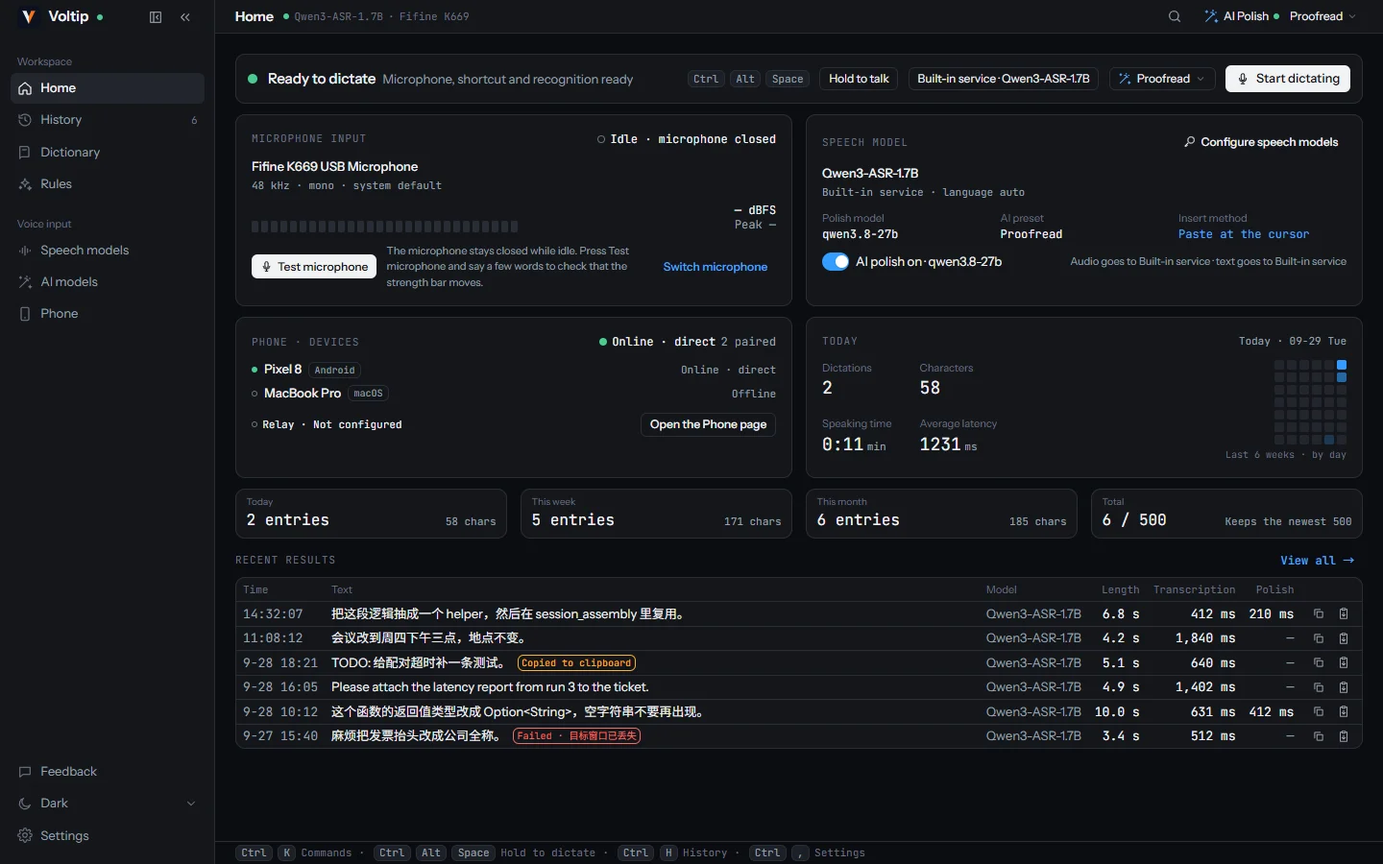
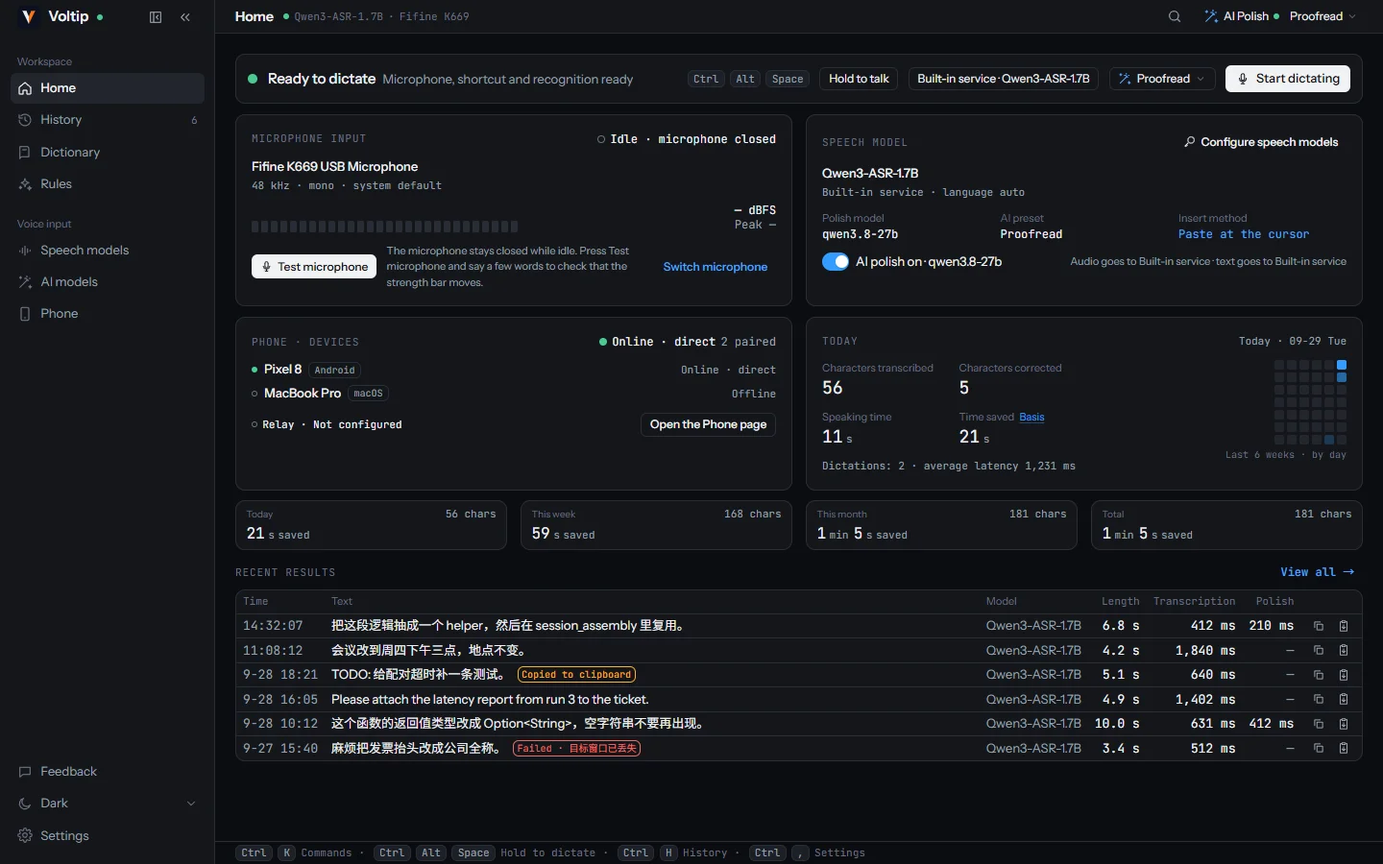
docs(voltip): sync from voltip@0a6762c
Source: https://github.com/sunerpy/voltip/commit/0a6762c34f20e1d3e2b272da582e045d2ff1074f

diff --git a/voltip/src/zh/dev/frontend.md b/voltip/src/zh/dev/frontend.md
@@ -69,7 +69,11 @@ Tauri command 名与参数（`invoke(name, args)`），返回值 JSON：
 | `scenes_update` / `scenes_remove` | `{ id, scene }` / `{ id }` | `null`（未知 id 为 `error` 事件） |
 | `scenes_reorder` | `{ ids: string[] }`（现有 id 的一个排列） | `null` |
 | `settings_set_context_sharing` | `{ appName: boolean, windowTitle: boolean }` | `null`（持久化 `Settings.context_sharing` 并回发 `settings`） |
-| `recent_apps` | — | `AppRef[]`（查询，`Backend.recentApps()`：历史里最近出现的应用，最新在前，按 id 去重，≤ 20） |
+| `recent_apps` | — | `AppRef[]`（查询，`Backend.recentApps()`：历史里最近出现的应用，最新在前，按 id 去重，≤ 20；读历史库） |
+| `history_query` | `{ sinceMs?, starred, failed, query, offset, limit }`（`limit` 1–200） | `HistoryPage` `{ entries, matching, total }`（查询，`Backend.historyQuery()`，docs/dictation.md §4.4） |
+| `history_entry` | `{ id }` | `HistoryEntry \| null`（查询，`Backend.historyEntry()`） |
+| `history_stats` | `{ boundaries: number[] }`（递增的本地零点，2–43 个） | `HistoryStats` `{ buckets, total }`（查询，`Backend.historyStats()`，docs/dictation.md §4.5） |
+| `history_hits` | — | `HistoryHits` `{ dictionary, rules }`（查询，`Backend.historyHits()`：全部历史的触发次数） |
 
 事件：`listen("voltip://event", (e) => UiEvent)`；听写相关事件为 `dictation`（`DictationStatus` 展平）、`history`（`{ entries }`）、`engines`（`EngineStatus` 展平），更新器事件为 `update`（`UpdateStatus` 展平，`type` 与 `state` 两个判别字段），词典与规则为 `dictionary`（`{ entries }`）与 `rules`（`{ rules }`，每次变更全量），`UiState` 有同名字段（`schema.ts` 用 `.default()` 兼容缺字段的旧核心）。
 
@@ -112,18 +116,18 @@ interface AppRef { id: string; name: string }
 interface TakeContext { app: AppRef; scene?: { id: string; name: string } } // DictationStatus.context?、HistoryEntry.app? / scene?
 interface ContextSharing { app_name: boolean /* default true */; window_title: boolean /* default false */ } // Settings.context_sharing
 interface NearbyDevice { fingerprint: string /* 16 位十六进制 */; name: string; platform: Platform; pairing: boolean; trusted: boolean } // docs/pairing.md「局域网发现」
-interface UiState { identity: DeviceIdentityPublic | null; settings: Settings; secret_backend: string; relay: RelayStatus; pairing: Snapshot; devices: DeviceView[]; hotkey: HotkeyStatus; dictation: DictationStatus; history: HistoryEntry[] /* 每行可带 vocabulary?: { corrections, rules }（命中的 id 与次数） */; engines: EngineStatus; update: UpdateStatus; models: ModelState[]; dictionary: DictionaryEntry[]; rules: ReplacementRule[]; nearby: NearbyDevice[] /* 局域网浏览看到的设备，default [] */ }
+interface UiState { identity: DeviceIdentityPublic | null; settings: Settings; secret_backend: string; relay: RelayStatus; pairing: Snapshot; devices: DeviceView[]; hotkey: HotkeyStatus; dictation: DictationStatus; history_recent: HistoryEntry[] /* 最新 20 条，每行可带 vocabulary?: { corrections, rules }（命中的 id 与次数） */; history_total: number /* 全部条数，其余用 history_query 读 */; engines: EngineStatus; update: UpdateStatus; models: ModelState[]; dictionary: DictionaryEntry[]; rules: ReplacementRule[]; nearby: NearbyDevice[] /* 局域网浏览看到的设备，default [] */ }
 type UiEvent = { type: "state" } & UiState | { type: "identity" } & DeviceIdentityPublic | { type: "settings" } & Settings | { type: "relay" } & RelayStatus
   | { type: "pairing" } & Snapshot | { type: "devices"; 0?: never } /* payload is the array: see below */ | { type: "trusted" } & TrustedDevice
   | { type: "identity_changed"; previous: TrustedDevice; presented_fingerprint: string } | { type: "message"; from: string; body: string } | { type: "error"; message: string }
-  | { type: "hotkey" } & HotkeyStatus | { type: "dictation" } & DictationStatus | { type: "history"; entries: HistoryEntry[] } | { type: "engines" } & EngineStatus | { type: "update" } & UpdateStatus
+  | { type: "hotkey" } & HotkeyStatus | { type: "dictation" } & DictationStatus | { type: "history"; recent: HistoryEntry[]; total: number } | { type: "engines" } & EngineStatus | { type: "update" } & UpdateStatus
   | { type: "models"; models: ModelState[] } | { type: "dictionary"; entries: DictionaryEntry[] } | { type: "rules"; rules: ReplacementRule[] }
   | { type: "scenes"; scenes: Scene[] } /* UiState.scenes，整份替换 */ | { type: "nearby"; devices: NearbyDevice[] } /* UiState.nearby，整份替换 */;
 ```
 
 注意 serde 内部标签的细节：`UiEvent::Devices(Vec<DeviceView>)` 与 `UiEvent::State(UiState)` 等 newtype 变体在 JSON 中是 `{"type":"devices", ...}`？**不是**——serde 对 tagged newtype 变体的规则：结构体内容被展平（`state`、`identity`、`settings`、`relay`、`pairing`、`trusted` 都是结构体，会展平成 `{type, ...fields}`），而 `devices` 的内容是数组，serde 无法展平，Rust 侧已改为 `{"type":"devices","devices":[...]}`。用 zod 按上述形状校验，校验失败记录并忽略该事件。
 
-`Backend` 接口：`getState() invoke() on(event) audioDevices() meter()`，以及查询 `updateStatus() vocabularyPreview() rulesExport() recentApps() permissionsStatus() permissionsRequest() injectPreflight() pasteText()`；提供 `TauriBackend`（`@tauri-apps/api` 的 `invoke/listen`）与 `MockBackend`（内存模拟：完整走完配对状态机与倒计时、设备上下线、消息回显，以及确定性的听写流水线——`dictation_start` → listening（`ready: false`，150 ms 后 `ready: true` 并重取 `started_at`；`live_preview_ready` 时每 400 ms 一条流式部分结果：`current` 增长三步 → 端点提交一条 `committed` → 第二句增长，脚本 `MOCK_LIVE_SCRIPT`；`simulateLiveDegraded(reason)` 置 `live.degraded` 并停发部分结果），`dictation_stop` → 400 ms transcribing（带 `preview` = committed + current）→ 300 ms refining → done + 一条 `HistoryEntry`，2.5 s 后回 idle；**输出模式（§12）**：`engines.effective_output_mode` = `output_mode`，流式模式在流式模型未安装 / `live_preview` 关时回落 `whole_take`；模式在 `dictation_start` 时定下——`streaming_final` 走 finalizing（120 ms，`MOCK_FINALIZE_MS`）→ refining? → done（`mode`、`segments` = committed + tail、`raw_text` = 预览文本、`asr_ms` = 120），`live_inject` 每个 committed 句立刻 `live.injected += 1`，松开后 finalizing → inserting → done 且不润色，取消时 `cancelled.injected_chars` = 已粘贴字数；流式取无文本或 `degraded` 时回落整段并记 `live_error`（`MOCK_EMPTY_STREAM_ERROR`）；**激活（§13）**：`hotkey_edge` 按 `settings.activation` 驱动——`hold` 按下开始 / 松开结束，`toggle` 按下切换 / 松开忽略，`hold_or_toggle` 松开时按住 ≥ `hold_threshold_ms` 结束、否则 `listening.locked = true` 并等下一次按下；`source: "cli"` 按下切换、松开取消；去抖、宽限与处理中 pending 不模拟。`settings_set_activation` 持久化三值并回发 `settings`，> 5000 ms 发 `error` 且不改；`extra_recording_ms > 0` 时 stop 延后关麦，窗口内第二次 stop 立即关、cancel 连录音一起丢弃；目录五条产品档位（`qwen3-asr-0.6b` 均衡 / `qwen3-asr-1.7b` 高精度 / `sense-voice-small` 轻量 / `paraformer-zh` 轻量 · 中文 / `zipformer-stream-zh-en` 实时预览，尺寸同真实文件），`live_preview_ready = live_preview && 流式模型已安装`；`settings_set_engines` / `provider_key_set` / `provider_probe` / `history_*` 真实作用于内存状态；**场景（§18）**：`scenes_*` / `settings_set_context_sharing` 按核心同样的上限与拒绝原文（`packages/shared/src/scenes.ts`），`recentApps()` 取内存历史；假探针 `foregroundApp` 选项 / `setForegroundApp(app | null)`，每次 `dictation_start` 按核心规则清洗答复并匹配场景，覆盖输出方式（流式不可用时整段 + `live_error`）与润色开关，`context` 进状态、`app` / `scene` 进历史；**语音编辑（§19）**：`setSelection(text | null)` 模拟前台选区（默认没有），`hotkey_edge { purpose: "edit" }` 按同一激活语义开始编辑的一次（另一种用途的一次进行中时边沿丢弃）——没有润色密钥即 `failed{edit_unavailable}` 不开麦；假探针 `foregroundApp` 的 id 属于身份平台的终端表（`isTerminalApp`，与 `voltip_platform::foreground` 同一份表，macOS 为空）即 `failed{edit_in_terminal}`，不复制、不写历史；60 ms（`MOCK_COPY_MS`）后复制：无选区 / 只有空白 `no_selection`、超过 2000 字 `selection_too_long`；松开后 transcribing → refining → inserting → done（`MOCK_EDIT_INSTRUCTION` → `MOCK_EDIT_TEXT`，永远整段、规则不跑），写一条 `kind: edit` 的历史（带指令、原选区与探针的 `app`，不匹配场景）；`settings_set_edit_hotkey` 与 `settings_set_hotkey` 互相拒绝对方的组合键，`hotkey` 状态带 `edit_registered`；内置服务在界面上只显示为「内置服务」，没有主机名；**粘贴到上一个窗口**（docs/dictation.md §4.1）：`pasteText` 照壳层与核心的规则拒绝（手机 `unsupported`、空白或超长 `invalid`、录音或处理中 `busy`），其余记进 `pastes` 并答 `pasteOutcome` 选项（默认 `pasted`，`setPasteOutcome` 可改），不写历史）。
+`Backend` 接口：`getState() invoke() on(event) audioDevices() meter()`，以及查询 `updateStatus() vocabularyPreview() rulesExport() recentApps() historyQuery() historyEntry() historyStats() historyHits() permissionsStatus() permissionsRequest() injectPreflight() pasteText()`；提供 `TauriBackend`（`@tauri-apps/api` 的 `invoke/listen`）与 `MockBackend`（内存模拟：完整走完配对状态机与倒计时、设备上下线、消息回显，以及确定性的听写流水线——`dictation_start` → listening（`ready: false`，150 ms 后 `ready: true` 并重取 `started_at`；`live_preview_ready` 时每 400 ms 一条流式部分结果：`current` 增长三步 → 端点提交一条 `committed` → 第二句增长，脚本 `MOCK_LIVE_SCRIPT`；`simulateLiveDegraded(reason)` 置 `live.degraded` 并停发部分结果），`dictation_stop` → 400 ms transcribing（带 `preview` = committed + current）→ 300 ms refining → done + 一条 `HistoryEntry`，2.5 s 后回 idle；**输出模式（§12）**：`engines.effective_output_mode` = `output_mode`，流式模式在流式模型未安装 / `live_preview` 关时回落 `whole_take`；模式在 `dictation_start` 时定下——`streaming_final` 走 finalizing（120 ms，`MOCK_FINALIZE_MS`）→ refining? → done（`mode`、`segments` = committed + tail、`raw_text` = 预览文本、`asr_ms` = 120），`live_inject` 每个 committed 句立刻 `live.injected += 1`，松开后 finalizing → inserting → done 且不润色，取消时 `cancelled.injected_chars` = 已粘贴字数；流式取无文本或 `degraded` 时回落整段并记 `live_error`（`MOCK_EMPTY_STREAM_ERROR`）；**激活（§13）**：`hotkey_edge` 按 `settings.activation` 驱动——`hold` 按下开始 / 松开结束，`toggle` 按下切换 / 松开忽略，`hold_or_toggle` 松开时按住 ≥ `hold_threshold_ms` 结束、否则 `listening.locked = true` 并等下一次按下；`source: "cli"` 按下切换、松开取消；去抖、宽限与处理中 pending 不模拟。`settings_set_activation` 持久化三值并回发 `settings`，> 5000 ms 发 `error` 且不改；`extra_recording_ms > 0` 时 stop 延后关麦，窗口内第二次 stop 立即关、cancel 连录音一起丢弃；目录五条产品档位（`qwen3-asr-0.6b` 均衡 / `qwen3-asr-1.7b` 高精度 / `sense-voice-small` 轻量 / `paraformer-zh` 轻量 · 中文 / `zipformer-stream-zh-en` 实时预览，尺寸同真实文件），`live_preview_ready = live_preview && 流式模型已安装`；`settings_set_engines` / `provider_key_set` / `provider_probe` / `history_*` 真实作用于内存状态；**场景（§18）**：`scenes_*` / `settings_set_context_sharing` 按核心同样的上限与拒绝原文（`packages/shared/src/scenes.ts`），`recentApps()` 取内存历史；假探针 `foregroundApp` 选项 / `setForegroundApp(app | null)`，每次 `dictation_start` 按核心规则清洗答复并匹配场景，覆盖输出方式（流式不可用时整段 + `live_error`）与润色开关，`context` 进状态、`app` / `scene` 进历史；**语音编辑（§19）**：`setSelection(text | null)` 模拟前台选区（默认没有），`hotkey_edge { purpose: "edit" }` 按同一激活语义开始编辑的一次（另一种用途的一次进行中时边沿丢弃）——没有润色密钥即 `failed{edit_unavailable}` 不开麦；假探针 `foregroundApp` 的 id 属于身份平台的终端表（`isTerminalApp`，与 `voltip_platform::foreground` 同一份表，macOS 为空）即 `failed{edit_in_terminal}`，不复制、不写历史；60 ms（`MOCK_COPY_MS`）后复制：无选区 / 只有空白 `no_selection`、超过 2000 字 `selection_too_long`；松开后 transcribing → refining → inserting → done（`MOCK_EDIT_INSTRUCTION` → `MOCK_EDIT_TEXT`，永远整段、规则不跑），写一条 `kind: edit` 的历史（带指令、原选区与探针的 `app`，不匹配场景）；`settings_set_edit_hotkey` 与 `settings_set_hotkey` 互相拒绝对方的组合键，`hotkey` 状态带 `edit_registered`；内置服务在界面上只显示为「内置服务」，没有主机名；**粘贴到上一个窗口**（docs/dictation.md §4.1）：`pasteText` 照壳层与核心的规则拒绝（手机 `unsupported`、空白或超长 `invalid`、录音或处理中 `busy`），其余记进 `pastes` 并答 `pasteOutcome` 选项（默认 `pasted`，`setPasteOutcome` 可改），不写历史）。
 
 `MockBackend` 与只在开发时用的页面（胶囊规格页 `OverlaySheet`）从 `@voltip/shared/mock` 与动态 `import()` 加载，只在 `import.meta.env.DEV` 且不在 Tauri 里时启用；发行包的前端里没有它们，`scripts/check-web-bundle.sh` 检查构建产物。
 
@@ -139,7 +143,7 @@ type UiEvent = { type: "state" } & UiState | { type: "identity" } & DeviceIdenti
 - 路由 `/`（首页）`/history` `/dictionary` `/rules` `/engines` `/devices`（配对面板 = 二维码 + 6 位码 + 倒计时 + 设备表）`/settings/:section`（对话框）`/onboarding`（权限 → 热键 → 引擎 → 试说，四步）；`Ctrl K` 命令菜单；悬浮胶囊作为独立路由 `/overlay?state=` 渲染单个胶囊（独立小窗，`state=blank` 什么都不画，**`state=live` 跟随 `state.dictation`**：idle 不画；listening 波形来自 `audio_meter_start` 的实时电平 + 已用时长——`ready: false`（设备尚未送出样本）时计时停在 `00:00` 并显示「等待麦克风」提示，`ready: true` 后从重取的 `started_at` 起计；有 `live` 时胶囊长高到两行（`h-14`，窗口 64 px 减 8 px 顶部内边距），波形上方一行两色实时字幕：`committed` 正常色 + `current` 弱化色（`text-pill-muted`），中日韩边界不加空格、拉丁边界加空格（`liveTextGap`），单行、只保留末尾 40 个字符（`clipLiveCaption`，前置省略号，`data-clipped`），旁边一枚「预览」小 chip；`live.degraded` 胶囊不额外显示任何东西（首页引擎卡出一行「实时预览已中断 · 最终文本不受影响」）；processing 有 `preview` 时用弱化色的预览文本（`pill-preview`，同样只留末尾 40 字）替代「转写中…」/「润色中…」直到最终结果；inserted 显示字数与 `via`，failed 显示原因并在有 `text` 时提供真实「复制文本」，cancelled 用 danger 胶囊），**§12 / §13（2026-09-26）**：`listening.locked` 时锁标（`pill-lock`，`aria-label`「已锁定 · 再按一次结束」）替代状态灯、字幕与计时照旧；`live.injected > 0` 时已粘贴的 committed 句以更淡样式（`pill-live-injected`，`title`「已打进前台应用」）排在字幕最前、裁剪时最先被裁；`processing.stage = finalizing` 时模式 tag 显示「补齐最后一句…」而 `preview` 继续显示；`cancelled.injected_chars > 0` 时文案为「已取消，之前打进去的 N 字保留」）；`/overlay` 不带参数是胶囊规格页（八态总览 + toast / 兜底卡 / 失败原因表；`locked` 样例胶囊的「结束收音」是真实 `dictation_stop`），只在开发构建里有，发行包里这个地址显示「找不到页面」。没有 `/bridge` 路由（Bridge & MCP 不在产品范围内）；首页对应位置是由核心真实数据驱动的「手机麦克风 · 设备」卡。
 - 客户端禁用浏览器右键菜单（`apps/desktop/src/app/context-menu.ts`，仅 Tauri 内生效，可编辑控件与 `data-allow-context-menu` 除外）。
 
-所有页面的数据都来自 `Backend`（`state.dictation` / `state.history` / `state.dictionary` / `state.rules` / `state.engines` / `state.settings` …）；`packages/shared/src/fixtures/` 只剩 IPC 契约夹具与测试数据。
+所有页面的数据都来自 `Backend`（`state.dictation` / `state.history_recent` 与历史查询 / `state.dictionary` / `state.rules` / `state.engines` / `state.settings` …）；`packages/shared/src/fixtures/` 只剩 IPC 契约夹具与测试数据。
 
 移动端（`apps/mobile/src`，同一套组件，竖屏 390×844 起）：`Welcome → This Device（名称、指纹、平台）→ Pair Device（[扫码] 或 输入 6 位码 `_ _ _   _ _ _`）→ Verify Device（对端名称/平台 + Safety Code 四词 + 指纹 + [Confirm & Trust]/[Reject]）→ Devices（Device / Platform / Online·Offline / Last Seen / Trusted / Connection Type）`。扫码用 `@tauri-apps/plugin-barcode-scanner`（在 Mock 下用文本输入代替）。
 
@@ -152,7 +156,7 @@ type UiEvent = { type: "state" } & UiState | { type: "identity" } & DeviceIdenti
 
 ## 6. 范围与诚实状态
 
-听写流水线在 Rust 核心真实运行（`docs/dictation.md`）：录音、识别、润色、剪贴板 + 粘贴注入、`history.json`、服务商与密钥。**界面上没有「尚未接入」「示例」一类的占位**：一个功能要么真的能用，要么不出现（`packages/shared/src/labels.test.ts` 的回归测试检查两份字典里都没有这类文案）。不做定时器模拟的进度、不伪造接受结果、不为没有发生的事弹成功 toast。
+听写流水线在 Rust 核心真实运行（`docs/dictation.md`）：录音、识别、润色、剪贴板 + 粘贴注入、`history.sqlite3`、服务商与密钥。**界面上没有「尚未接入」「示例」一类的占位**：一个功能要么真的能用，要么不出现（`packages/shared/src/labels.test.ts` 的回归测试检查两份字典里都没有这类文案）。不做定时器模拟的进度、不伪造接受结果、不为没有发生的事弹成功 toast。
 
 ### 6.1 统一措辞（`packages/shared/src/labels.ts`）
 
@@ -170,8 +174,8 @@ type UiEvent = { type: "state" } & UiState | { type: "identity" } & DeviceIdenti
 
 | 路由 | 数据来源 | UI 如何表达 |
 |---|---|---|
-| `/` 首页 | **全部真实**：就绪行读 `state.engines`（令牌是否就位）+ 麦克风；识别引擎卡在 `live_preview_ready` 时带「实时预览」chip（`home-live-preview`），listening 且 `live.degraded` 时出一行「实时预览已中断 · 最终文本不受影响」（`home-live-degraded`，`title` 为核心原因）；本地模式的模型名中文用核心 `name`、英文按 id 查字典；组合键 keycaps 读 `state.settings.hotkey`，就绪行的 chip（按住说话 / 按一下开始 · 再按结束 / 按住说话 · 短按锁定）、页脚说明（按住听写 / 按一下听写 / 按住或按一下听写）与空态提示（`activationHint`）随 `state.settings.activation` 变化（docs/dictation.md §13）；「开始听写」= `dictation_start`，听写中变「停止」= `dictation_stop`，另有「取消」= `dictation_cancel`；就绪行下方一行实时状态（`正在听… 00:03` / `转写中…` / `已插入 42 字 · 粘贴 · 已润色` / `失败 · …`）；识别引擎卡读 `state.engines`，LLM 润色开关写 `settings_set_engines`；今日会话 / 统计条 / 近 6 周热力图 / 最近的结果由 `state.history` 计算（`features/history/stats.ts`）；麦克风卡为 Rust 电平；手机麦克风卡读 `state.devices` / `state.relay` | 无 chip、无徽标；令牌缺失时「还不能开始听写」+ 按钮禁用并带原因 `识别引擎缺少访问令牌 · 在「引擎」页设置`；历史为空时表格位置是空态 + 热键提示 |
-| `/history` | **真实** `state.history`（`history.json`，上限 500） | 横幅写事实「history.json · 上限 500 条」；筛选 全部 / 今天 / 本周 / 本月 / 已收藏 / 未插入；搜索文本 / 原文 / 模型 / 应用 / 场景；带上下文的条目在日志行显示应用名 + 场景徽标（`history-context`），详情显示「应用：名称 · id」与「场景」（没有匹配为「未匹配场景」，docs/dictation.md §18.6）；星标 = `history_star`，删除 = 确认 + `history_delete`（选中相邻项），全部清空 = 确认 + `history_clear`；复制走 `copyWithToast`；原文 / 润色后 / 对比 diff 来自 `raw_text` 与 `text`；`mode` 为流式定稿 / 实时注入的条目在日志行与详情页头带 `Badge`（`history-mode` / `history-detail-mode`），整段不显示；`live_error` 有值时详情里出「流式回退：…」（`history-live-error`）；空态提示随 `settings.activation`；详情列出本次触发的词典纠正与规则（`history-vocabulary`，名称取当前列表，已删除的写「已删除的词条 / 规则」）；「加入词典」打开对话框（曾听成用当前选区预填，正确写法手填）提交 `dictionary_add { historyId }`，核心拒绝时对话框保留并显示原因；没有「重新插入」「保留时长」等无后端控件 |
+| `/` 首页 | **全部真实**：就绪行读 `state.engines`（令牌是否就位）+ 麦克风；识别引擎卡在 `live_preview_ready` 时带「实时预览」chip（`home-live-preview`），listening 且 `live.degraded` 时出一行「实时预览已中断 · 最终文本不受影响」（`home-live-degraded`，`title` 为核心原因）；本地模式的模型名中文用核心 `name`、英文按 id 查字典；组合键 keycaps 读 `state.settings.hotkey`，就绪行的 chip（按住说话 / 按一下开始 · 再按结束 / 按住说话 · 短按锁定）、页脚说明（按住听写 / 按一下听写 / 按住或按一下听写）与空态提示（`activationHint`）随 `state.settings.activation` 变化（docs/dictation.md §13）；「开始听写」= `dictation_start`，听写中变「停止」= `dictation_stop`，另有「取消」= `dictation_cancel`；就绪行下方一行实时状态（`正在听… 00:03` / `转写中…` / `已插入 42 字 · 粘贴 · 已润色` / `失败 · …`）；识别引擎卡读 `state.engines`，LLM 润色开关写 `settings_set_engines`；最近的结果读 `state.history_recent`；今日会话 / 统计条 / 近 6 周热力图来自 `history_stats`（`features/history/stats.ts`、`useHomeStats.ts`，docs/dictation.md §4.5）：今日面板写转录字数、修正字数、说话时长、节省时间，四张卡写节省时间和字数，「依据」弹层说明 × 1.9 的来源；麦克风卡为 Rust 电平；手机麦克风卡读 `state.devices` / `state.relay` | 无 chip、无徽标；令牌缺失时「还不能开始听写」+ 按钮禁用并带原因 `识别引擎缺少访问令牌 · 在「引擎」页设置`；历史为空时表格位置是空态 + 热键提示 |
+| `/history` | **真实** `history_query` 分页读库（`history.sqlite3`，上限 2 万，docs/dictation.md §4.4） | 横幅写保留条数（`settings.history.keep`）；每页 100 条，滚动到底加载下一页（另有「加载更多」），列表下方写「已显示 n / m 条」；筛选与搜索交给核心（搜索停止输入 200 ms 后发出）；筛选 全部 / 今天 / 本周 / 本月 / 已收藏 / 未插入；搜索文本 / 原文 / 模型 / 应用 / 场景；带上下文的条目在日志行显示应用名 + 场景徽标（`history-context`），详情显示「应用：名称 · id」与「场景」（没有匹配为「未匹配场景」，docs/dictation.md §18.6）；星标 = `history_star`，删除 = 确认 + `history_delete`（选中相邻项），全部清空 = 确认 + `history_clear`；复制走 `copyWithToast`；原文 / 润色后 / 对比 diff 来自 `raw_text` 与 `text`；`mode` 为流式定稿 / 实时注入的条目在日志行与详情页头带 `Badge`（`history-mode` / `history-detail-mode`），整段不显示；`live_error` 有值时详情里出「流式回退：…」（`history-live-error`）；空态提示随 `settings.activation`；详情列出本次触发的词典纠正与规则（`history-vocabulary`，名称取当前列表，已删除的写「已删除的词条 / 规则」）；「加入词典」打开对话框（曾听成用当前选区预填，正确写法手填）提交 `dictionary_add { historyId }`，核心拒绝时对话框保留并显示原因；没有「重新插入」「保留时长」等无后端控件 |
 | `/dictionary` | **真实** `state.dictionary`（`dictionary.json`，上限 500，按匹配顺序） | 新建（表上方一行）/ 行内编辑（Enter 保存、Esc 取消）/ 启用开关 / 上移下移 / 删除（行内确认）= `dictionary_*`；输入时本地查空、超长、重复正确写法、写法过多，其余由核心判定（reject 原文留在编辑器，冲突为 `error` toast）；「命中」列与「历史记录里的命中」chip 汇总 `history[*].vocabulary.corrections`；「试一试」= `vocabulary_preview`（防抖，列表变化重问），「用最近一次听写」取 `history[0].raw_text`；说明卡写明词表去向（云端识别与 AI 润色；本地模型不接收）；`Ctrl N` 新建；没有 CSV、权重、复制为规则、示例页脚 |
 | `/rules` | **真实** `state.rules`（`rules.json`，上限 200，按执行顺序） | 一张表（序号 / 名称 / 类型 / 匹配 + `Aa` / 替换或「（删除）」/ 命中 / 启用）；编辑器本地查空名称、重名、空匹配，再用 `vocabulary_preview("", draft)` 让核心编译检查（失败原文进状态行、禁用保存），`Ctrl S` 保存、`Esc` 取消、`Ctrl N` 新建；上移下移 = `rules_reorder`，删除 = 确认 + `rules_remove`；「试运行」（`Ctrl ↵`）= `vocabulary_preview`，可带正在编辑的草稿（「名称（未保存）」）；「导入 TOML」文本对话框（合并 / 替换，核心整份校验，拒绝原文含行号）、「导出 TOML」对话框显示 `rules_export` 文本并可复制；没有规则集切换、预算、作用域、逐阶段视图、示例页脚 |
 | `/speech` 语音模型页（旧链接 `/engines`、`/settings/engine`、`/settings/speech` 都进这里）；`/ai` AI 模型页（旧链接 `/settings/refine`、`/settings/ai`） | **全部真实**（`state.engines` / `state.models` / `state.hardware` / `settings_set_engines` / `provider_key_set` / `provider_probe` / `model_download` / `model_cancel` / `model_remove`） | 服务商卡片（见 §4）；本地模型库按档位排序（均衡 → 高精度 → 轻量 → 轻量 · 中文）；「实时预览」块：开关写 `live_preview`，状态 已就绪 / 模型未下载 / 已关闭，流式模型卡无「使用此模型」；「输出方式」三卡写 `output_mode`，状态行 / 「当前生效」徽标读 `effective_output_mode`，模型缺失时说明回落；「静音裁剪」开关写 `vad_trim`，云端禁用并说明 |
@@ -184,10 +188,10 @@ type UiEvent = { type: "state" } & UiState | { type: "identity" } & DeviceIdenti
 | `/settings/about` 关于 | **真实**：版本来自 `state.app_version`，许可 Apache-2.0，模型来源，更新行读 `state.update` | 只读读数行 + 同一条更新状态行（紧凑）+「源代码」「反馈问题」（`project_link_open`，壳层用浏览器打开仓库地址） |
 | `/settings/privacy` 隐私 | **真实**：`state.engines` 与上下文开关推出的「现在离开这台电脑的内容」、`settings.history`（`settings_set_history`：开关与保留条数）、`state.secret_backend` | 读数行 + 历史开关与保留条数（改小立即裁剪）+「清空历史」（确认） |
 | `/overlay` | 规格页：波形为确定性伪造序列；**`/overlay?state=live`：真实**（见 §4：等待麦克风 / 两色实时字幕 + 「预览」chip / processing 的 `preview` / 锁标 / 已粘贴句更淡 / 「补齐最后一句…」/ 取消保留字数 / 模式标签后的场景名 `pill-scene`） | 规格页「复制文本」真实；`locked` 样例胶囊的「结束收音」= 真实 `dictation_stop`（锁定态由 `hold_or_toggle` 短按产生，§13）；示例 toast 的「撤销」不做事 |
-| `Ctrl K` 命令菜单 | **真实** | 「开始听写 / 停止听写」= `dictation_start` / `dictation_stop`（处理中禁用并说明）；「复制上一条结果」复制 `state.history[0].text`；「删除全部历史…」确认后 `history_clear`；历史为空时两项禁用并写「历史记录为空」 |
+| `Ctrl K` 命令菜单 | **真实** | 「开始听写 / 停止听写」= `dictation_start` / `dictation_stop`（处理中禁用并说明）；「复制上一条结果」复制 `state.history_recent[0].text`；「删除全部历史…」确认后 `history_clear`；历史为空时两项禁用并写「历史记录为空」 |
 | `/onboarding` | **真实** | 第 1 步每秒轮询 `permissions_status`（`docs/dictation.md` §15.1），必需权限被拒时不能继续，Linux 直接通过；第 2 步读核心的组合键与 shell 的注册结果；**第 3 步**三选一（内置服务 / 本机模型，可当场下载推荐模型 / 其他服务商，填模型与密钥，密钥经 `provider_key_set`），「保存并继续」写 `settings_set_engines`；**第 4 步**「试说一句」= `dictation_start`，变「停止」= `dictation_stop`，电平表在录音期间跟随真实电平，`done` 的 `text` 显示在框里并说明文本也已按 `via` 送到光标处，「完成设置」始终可用；没有跳过链接 |
 
-标题栏紧凑读数（`shell/page-meta.ts` `engineReadout` + `microphoneReadout`）：引擎读数一律来自 `state.engines`（`Qwen3-ASR-1.7B`，tooltip 主机 + 令牌状态；核心未报告时显示「等待核心…」），麦克风来自原生电平表枚举到的设备；`pageMeta().readouts`（历史条数、热词、中继 …）仍按页计算，供测试使用；设置对话框页头的读数来自 `settingsReadouts`（热键、外观、场景）；热键行来自 `state.settings.hotkey`；侧栏历史计数为 `state.history.length`。
+标题栏紧凑读数（`shell/page-meta.ts` `engineReadout` + `microphoneReadout`）：引擎读数一律来自 `state.engines`（`Qwen3-ASR-1.7B`，tooltip 主机 + 令牌状态；核心未报告时显示「等待核心…」），麦克风来自原生电平表枚举到的设备；`pageMeta().readouts`（历史条数、热词、中继 …）仍按页计算，供测试使用；设置对话框页头的读数来自 `settingsReadouts`（热键、外观、场景）；热键行来自 `state.settings.hotkey`；侧栏历史计数为 `state.history_total`。
 
 ### 6.3 回归测试
 

diff --git a/voltip/src/zh/dev/dictation.md b/voltip/src/zh/dev/dictation.md
@@ -156,7 +156,7 @@ pub struct HistoryEntry {
 }
 ```
 
-`app_data_dir/history.json`，最多 500 条（旧的丢弃），写入原子（临时文件 + rename）。命令 `HistoryDelete(Uuid)`、`HistoryClear`、`HistoryStar(Uuid, bool)`；事件 `CoreEvent::History(Vec<HistoryEntry>)`（全量替换）。
+`app_data_dir/history.sqlite3`（SQLite，§4.3），最多 `MAX_ENTRIES = 20 000` 条，超出时丢弃最旧的。命令 `HistoryDelete(Uuid)`、`HistoryClear`、`HistoryStar(Uuid, bool)`；事件 `CoreEvent::History { recent, total }` 只带最新 `RECENT_ENTRIES = 20` 条和总条数，其余由界面查询（§4.4）。2026-09-30 之前是 `history.json`：最多 500 条，每次变化推送全量。
 
 ### 4.1 复制与粘贴到上一个窗口（2026-09-29）
 
@@ -189,6 +189,45 @@ pub struct HistoryEntry {
 
 链路：`voltip-inject` 的 `DeliveryError::Unavailable(InjectNote { code, detail })` → `Injection.note` → 桌面壳 `core_note` 换成核心的 `ClipboardCode` → `Outcome::clipboard(note)`。界面上，首页表格、历史列表和详情标题栏只显示短标签「已复制到剪贴板」；详情正文下方一张提示卡按 `code` 给出一句说明和本机的粘贴键（macOS ⌘V，其余 Ctrl+V），原文收在可展开的「技术细节」里（等宽、任意位置断行）。
 
+### 4.3 存储与导入（2026-09-30）
+
+- **连接**：`history.sqlite3` 用 WAL，`synchronous = NORMAL`，`foreign_keys = ON`，忙等 5 s。核心的 `HistoryStore`（由 `Runtime` 打开）持有唯一的写连接；bridge 的 `HistoryReader` 在第一次查询时打开只读连接（`SQLITE_OPEN_READ_ONLY`），WAL 下读写可以并发。库还没建好时查询返回空结果。
+- **表**：`entries` 整条存 `HistoryEntry` 的 JSON（`json` 列），另有索引列 `at_ms`、`starred`、`kind`、`outcome`、`app_id`、`scene_id`，统计列 `spoken_ms`、`raw_chars`、`corrected_chars`、`latency_ms`、`counts_for_stats`（§4.5），以及搜索列 `search`（§4.4）。这些列在写入时从条目算出，JSON 仍是记录本身。`hits` 存每条触发的词典条目与规则次数（§16.3），随条目级联删除；`meta` 存导入摘要。`PRAGMA user_version` 为表结构版本。顺序一律是 `at_ms DESC, rowid DESC`。
+- **保留**：`Settings.history.keep` 新安装默认 20 000，选项为 500 / 2 000 / 5 000 / 10 000 / 20 000（`PrivacyPane.tsx` `KEEP_OPTIONS`，`schema.ts` `HISTORY_LIMIT`），下限 `MIN_KEEP = 10`。已保存的 `keep` 不改（不做设置迁移），用户在隐私设置里改选即可；调小时立即裁剪。
+- **一次性导入**：这是数据导入，不是设置迁移；每一步都可以中断后重来。
+  1. 启动时如果有 `history.sqlite3.importing`，说明上次导入没做完，直接删掉。
+  2. 有 `history.json`、没有 `history.sqlite3`：在 `history.sqlite3.importing` 里用一个事务按从旧到新写入全部条目，并写一行 `meta(imported_json_sha256)`；提交并关闭后原子改名为 `history.sqlite3`。
+  3. 把 `history.json` 改名为 `history.json.imported-<unix 秒>`，永不删除。
+  4. `history.sqlite3` 与 `history.json` 同时存在（上次停在第 2、3 步之间）：JSON 的 SHA-256 与 `meta` 一致时只补做第 3 步；不一致时把 JSON 移到 `history.json.corrupt`，不重复导入。
+- **损坏**：JSON 无法解析或表结构版本不认识时移到 `history.json.corrupt`；`history.sqlite3` 不是可用的数据库时连同 `-wal` / `-shm` 移到 `history.sqlite3.corrupt*`，从空库开始。两者都不会让应用启动失败。
+- **降级**：旧版本读不到 `history.sqlite3`，历史页是空的。把 `history.json.imported-<秒>` 改回 `history.json` 即可恢复导入前的记录；之后的新记录只在 `history.sqlite3` 里。发布说明写明这一点。
+- **实测**（本机，2 万条，`history/tests.rs` 的计时测试，门槛为打开 < 500 ms、查询 < 50 ms、统计 < 100 ms）：打开 11 ms，搜索 9 ms，取一页 1 ms，统计 13 ms。
+
+### 4.4 查询（2026-09-30）
+
+查询不经过核心的命令通道：桌面 Tauri 命令在 `spawn_blocking` 里调用 `Bridge` 的方法，直接返回结果。它们登记在 `schema.ts` 的 `QUERY_COMMANDS`；手机端注册同名命令，做同样的参数检查，返回空结果（手机不存听写历史）。`MockBackend` 在内存里实现同样的语义（`packages/shared/src/history-queries.ts`，只有 mock 引用）。
+
+| 命令 | 参数 | 结果 |
+|---|---|---|
+| `history_query` | `sinceMs?`、`starred`、`failed`、`query`、`offset`、`limit`（1–`HISTORY_QUERY_LIMIT = 200`） | `{ entries, matching, total }`：按时间倒序的一页、符合条件的条数、全部条数 |
+| `history_entry` | `id` | 条目，或不存在时 `null` |
+| `history_stats` | `boundaries: number[]`（严格递增，2–43 个） | `{ buckets, total }`（§4.5） |
+| `history_hits` | — | `{ dictionary: { id: n }, rules: { id: n } }`：全部历史里每个词典条目与规则的触发次数（§16.3） |
+| `recent_apps` | — | 历史里出现过的应用（§18.6），同样读库 |
+
+- **筛选**：`sinceMs`（页面按本地时间算好的零点）、收藏、失败（留在剪贴板或失败，即 `outcome` 不是 `inserted`）都用 SQL 过滤。
+- **搜索**：关键词去掉首尾空白、转小写后，在 `search` 列里做子串匹配。`search` 列在写入时拼成：内置场景的中英文名、`text`、`raw_text`、两个模型、应用名和 id、场景名、编辑指令、选区，各自 `to_lowercase` 后以 U+001F 分隔，所以一次匹配不会跨两个字段。
+- **状态与事件**：`UiState.history_recent`（最新 20 条）与 `history_total` 取代原来的 `UiState.history`；`UiEvent::History { recent, total }`。复制上一条、侧栏计数、规则与词典页的「用最近一次听写」读 `history_recent`。
+- **历史页**：每页 `HISTORY_PAGE = 100` 条，列表底部进入视野时加载下一页（也可以点「加载更多」）；搜索在停止输入 200 ms 后发出；新结果回来之前保留原来的行，第一次结果回来之前不显示空状态。收到历史事件时重新加载已加载的条数。首页表格点开的条目不在已加载的页里时，详情用 `history_entry` 取。
+
+### 4.5 统计（2026-09-30）
+
+- **计入范围**：只算听写（`kind = dictation`）。手机发来的录音在本机识别，计入；手机发来的打字和剪贴板文字不计入；语音编辑不计入。
+- **每条的数字**：说话时长 = `duration_ms`；转录字数 = `raw_text` 的 Unicode 标量数；修正字数 = 去掉空白后 `raw_text` → `text` 的 Levenshtein 距离，按 Unicode 标量计（`strsim::generic_levenshtein`），超过 `CORRECTION_PIECE_CHARS = 2 000` 字时两边按相同比例切成同样多段，逐段相加；延迟 = `asr_ms + refine_ms`。
+- **分桶**：页面用 `statsBoundaries` 按本地时间算出零点，从本周一往前 5 周到明天零点，共 37–43 个；夏令时 23 或 25 小时的日子也按本地零点算。核心按 `[bᵢ, bᵢ₊₁)` 分桶，每个区间和总计都给出次数、转录字数、修正字数、说话时长和延迟合计。页面用这些区间拼出今天、本周、本月和 6 周热力图（本月的开头总在这 6 周里）。
+- **节省时间** = 说话时长 × 1.9（`SAVED_TIME_FACTOR`）。依据：Ruan 等 2016（arXiv:1608.07323）的实验里，说话输入比手机打字快约 2.9 倍（英文 153 vs 52 词/分，中文 123 vs 43），打出同样的字要多花约 1.9 倍的说话时长。首页的「依据」弹层写的是同一段说明。
+- **首页**：今日面板显示转录字数、修正字数、说话时长、节省时间，次数和平均延迟放在下面一行（窄窗口在两者之间换行），「依据」在「节省时间」旁；今天 / 本周 / 本月 / 总计四张卡第一行是范围和字数，第二行是节省时间。时长按大小换单位（`durationParts`：「21 秒」「3 分 47 秒」「79 小时 10 分」），数字大、单位小；侧栏的历史计数与页面上的计数一样加千位分隔。
+
 ## 5. IPC（bridge 与 TS 契约）
 
 | wire 名 | `UiCommand` | 参数 |
@@ -209,7 +248,7 @@ pub struct HistoryEntry {
 | `update_check` / `update_install` | —（桌面 shell 自己处理，见 §9） | 无参数 |
 | `update_status` | —（查询，返回 `UpdateStatus`） | 无参数 |
 
-事件：`UiEvent::Dictation(DictationStatus)`、`UiEvent::History { entries }`、`UiEvent::Engines(EngineStatus)`、`UiEvent::Models { models }`；`UiState` 新增 `dictation`、`history`、`engines`、`models`。契约夹具 `packages/shared/src/fixtures/ipc/*.json` 由 Rust 契约测试再生成。个人词典与替换规则的 9 条命令、2 个查询与 `dictionary` / `rules` 事件见 §16.4。
+事件：`UiEvent::Dictation(DictationStatus)`、`UiEvent::History { recent, total }`（2026-09-30 之前为 `{ entries }` 全量，§4.4）、`UiEvent::Engines(EngineStatus)`、`UiEvent::Models { models }`；`UiState` 新增 `dictation`、`history_recent` 与 `history_total`（原 `history`）、`engines`、`models`。历史查询见 §4.4。契约夹具 `packages/shared/src/fixtures/ipc/*.json` 由 Rust 契约测试再生成。个人词典与替换规则的 9 条命令、2 个查询与 `dictionary` / `rules` 事件见 §16.4。
 
 2026-09-25 起 wire 上新增（均向后兼容：缺省可解析）：
 
@@ -238,9 +277,9 @@ pub struct HistoryEntry {
 ## 6. 前端
 
 - **标题栏只留**：页标题（拖拽区）+ 紧凑读数（识别模型 + 就绪灯 · 麦克风短名，mono 11 px，最多两项，`md` 以下隐藏）、`Ctrl K` 搜索图标按钮、「AI 润色」文字开关（图标 + 灯）、窗口控制；没有第二行读数条，也没有示例数据。词典与规则页是核心的真实列表（§16.6）。
-- **首页**：就绪行的组合键与页脚快捷键读 `state.settings.hotkey`；「开始听写」= `dictation_start` / 听写中变「停止」= `dictation_stop`；识别引擎卡读 `state.engines`；最近结果 / 统计条 / 今日会话由 `state.history` 计算。
+- **首页**：就绪行的组合键与页脚快捷键读 `state.settings.hotkey`；「开始听写」= `dictation_start` / 听写中变「停止」= `dictation_stop`；识别引擎卡读 `state.engines`；最近结果读 `state.history_recent`，统计条与今日会话来自 `history_stats`（§4.5）。
 - **麦克风（2026-09-28 用户反馈）**：空闲时不打开麦克风。首页麦克风卡只在两种情况下测强度：一次录音进行中（用录音自己的帧，不再二次打开设备），或点了「测试麦克风」（15 秒后自动停止，也可以提前停）。其余时间强度条保持静止，并写明空闲时不打开麦克风。界面用词是「强度」，不再叫「电平」。设置对话框新增「麦克风」组：输入设备下拉写 `settings_set_microphone { device }`（`null` 表示跟随系统默认），旁边是同样的「测试麦克风」。核心的 `Settings.microphone`（`Option<String>`，旧文件读作 `None`）经 `DictationEngine::set_microphone` 在下一次录音时交给麦克风端口，设备 id 超过 1024 字节或为空时拒绝。所选设备没接上时，本次录音和测试都退回系统默认输入（桌面壳 `connected_or_default` 与电平 hub 的打开逻辑）；界面上这项选择保留，标成「未连接」，并说明听写会先用系统默认输入。手机录音不受影响。
-- **历史页**：`state.history`，删除 / 清空 / 星标 / 筛选 / 原文-润色 diff 全部真实。
+- **历史页**：`history_query` 分页读库（§4.4），删除 / 清空 / 星标 / 筛选 / 搜索 / 原文-润色 diff 全部真实。
 - **设置 › 引擎**（引擎与设置合并为一个对话框）：「语音识别」「文本润色」两组服务商卡片（§3；展开卡片选模型、填接口地址与密钥、测试连接，「使用」写 `settings_set_engines`，密钥走 `provider_key_set`）；「本机」卡片里是按档位排序的本地模型卡（下载 / 取消 / 删除 / 使用此模型）与运行设备（§10.6）、独立的「实时预览」块（开关 + 流式模型卡）、「输出方式」三卡（§12，`effective_output_mode` 驱动「当前生效」徽标与回落说明；`live_inject` 下润色卡注明不润色）与「静音裁剪」开关（仅本地）；见 `docs/frontend.md` §4、§6。
 - **设置 › 热键**：录制组合键 + 「激活方式」三卡（§13）+ 「短按判定阈值」（仅 `hold_or_toggle`）+ 「松开后继续录音」，任一改动整份 `settings_set_activation`；首页 chip、页脚说明、空态提示随激活方式变化。
 - **悬浮胶囊**：`listening` 的波形来自 `audio_meter_start`（录音期间由核心广播喂给）；`locked` 时锁标替代状态灯（§13）；`live.injected` 已粘贴的句子更淡（§12）；`finalizing` 时模式 tag 为「补齐最后一句…」且预览继续；`inserted` 显示字数与 `via`；`error` 显示原因并提供「复制」；`cancelled.injected_chars > 0` 时「已取消，之前打进去的 N 字保留」。
@@ -829,7 +868,7 @@ case_sensitive = false
 
 ### 16.6 前端
 
-- **词典页**（`/dictionary`）：读写 `state.dictionary`，按匹配顺序列出；新建（表上方一行）/ 行内编辑（正确写法 + 曾听成，多个写法用逗号、`·`、`、`、分号或换行分隔；Enter 保存、Esc 取消）/ 启用开关 / 上移下移 / 删除（行内确认）全部是 `dictionary_*` 命令。输入时本地先查空、超长、重复正确写法、写法过多（本地化文案）；其余由核心判定：草稿本身不合法时命令被拒、编辑器保持打开并显示核心原文，与其他词条冲突时核心发 `error` 事件（toast），列表不变。「命中」列与「历史记录里的命中」chip 由 `state.history[*].vocabulary.corrections` 汇总。右侧「试一试」对输入调用 `vocabulary_preview`（200 ms 防抖，列表变化时重问），列出命中的词条与次数、纠正后的文本，规则会进一步改动时另起一行显示；「用最近一次听写」取 `state.history[0].raw_text`，「用剪贴板文本」读剪贴板。说明卡如实写明：词典在识别后立即纠正、启用词条的正确写法作为术语表发给云端识别和 AI 润色、本地识别模型不接收术语表。`Ctrl N` 新建。
+- **词典页**（`/dictionary`）：读写 `state.dictionary`，按匹配顺序列出；新建（表上方一行）/ 行内编辑（正确写法 + 曾听成，多个写法用逗号、`·`、`、`、分号或换行分隔；Enter 保存、Esc 取消）/ 启用开关 / 上移下移 / 删除（行内确认）全部是 `dictionary_*` 命令。输入时本地先查空、超长、重复正确写法、写法过多（本地化文案）；其余由核心判定：草稿本身不合法时命令被拒、编辑器保持打开并显示核心原文，与其他词条冲突时核心发 `error` 事件（toast），列表不变。「命中」列与「历史记录里的命中」chip 来自 `history_hits` 对全部历史的汇总（§4.4）。右侧「试一试」对输入调用 `vocabulary_preview`（200 ms 防抖，列表变化时重问），列出命中的词条与次数、纠正后的文本，规则会进一步改动时另起一行显示；「用最近一次听写」取 `state.history_recent[0].raw_text`，「用剪贴板文本」读剪贴板。说明卡如实写明：词典在识别后立即纠正、启用词条的正确写法作为术语表发给云端识别和 AI 润色、本地识别模型不接收术语表。`Ctrl N` 新建。
 - **规则页**（`/rules`）：读写 `state.rules`，一张表按执行顺序（序号、名称、类型、匹配 + 不区分大小写标记 `Aa`、替换或「（删除）」、命中、启用）；新建 / 编辑（名称、字面 / 正则、匹配、替换、区分大小写）/ 上移下移 / 删除（确认对话框）；编辑器本地查空名称、重名、空匹配，其余交给核心：对草稿调用 `vocabulary_preview("", draft)`，正则按流水线同一个 Rust `regex` 编译，失败原文显示在状态行并禁用保存；`Ctrl S` 保存、`Esc` 取消、`Ctrl N` 新建。「试运行」对输入调用 `vocabulary_preview`（`Ctrl ↵`），显示词典纠正后与规则替换后的文本、命中的规则与次数；编辑器打开时「包含正在编辑的规则」开关把草稿一起带上（显示为「名称（未保存）」）。「导入 TOML」是文本对话框（粘贴 + 合并 / 替换），核心整份校验，拒绝时原文（含行号）显示在对话框里；「导出 TOML」对话框显示 `rules_export` 的文本并可复制（没有文件对话框插件）。
 - **历史页**：详情显示本次触发的词典纠正与规则（按当前列表取名称，已删除的显示「已删除的词条 / 规则」）；「加入词典」打开对话框（曾听成用条目原文或终稿里的当前选区预填，正确写法手填），提交 `dictionary_add { historyId }`；核心拒绝时对话框保持打开并显示原因。
 - **侧栏**：历史、词典、规则的计数都来自核心列表，为 0 时不显示。
@@ -1038,7 +1077,7 @@ UiEvent::Scenes { scenes }                                                   // 
 | `recent_apps` | —（查询） | 无 | `AppRef[]`：历史里出现过的应用，最新在前，按 id 去重，≤ 20 |
 
 - 草稿本身不合法（空 / 超长 / 控制字符 / 应用 id 无效、重复或过多 / 语言代码无效 / 未知字段）在 bridge 的 `into_core` 里同步拒绝，webview 的 `invoke` 直接收到错误；依赖现有列表的校验（重名、上限、未知 id、排列不完整）由核心执行，失败以 `error` 事件报告、列表不变。错误前缀 `scenes:`，细节中文。
-- `recent_apps` 由 shell 用 bridge 缓存的 `UiState.history` 调用核心纯函数 `scenes::recent_apps`。
+- `recent_apps` 由 bridge 的只读连接直接读库（`HistoryReader::recent_apps`，§4.4）；2026-09-30 之前用缓存的 `UiState.history` 计算。
 - 手机端：6 条命令 / 查询全部返回 `Err("scenes: 手机端不支持场景与上下文")`，没有探针；核心照常加载（空）`scenes.json`，`UiState.scenes = []`。
 
 ### 18.7 前端

diff --git a/voltip/src/dictation/history.md b/voltip/src/dictation/history.md
@@ -1,5 +1,5 @@
 ---
-description: The dictation history on your computer, what each entry shows, how much is kept, and the statistics in development.
+description: The dictation history on your computer, what each entry shows, how much is kept, and the statistics on the home page.
 ---
 
 # History
@@ -21,23 +21,25 @@ From an entry you can:
 - add a misheard word to the [dictionary](/recognition/dictionary) with **Add to dictionary**;
 - delete it.
 
-The search box finds text, apps, scenes and models. Filters narrow the list to today, this week or this month, to starred entries, or entries whose text was not inserted.
+The search box finds text, apps, scenes and models. Filters narrow the list to today, this week or this month, to starred entries, or entries whose text was not inserted. The list shows 100 entries at a time; scroll to the end, or select **Load more**, to see the next ones.
 
 ## How much is kept
 
 Under **Settings → Privacy and history**:
 
-- **Keep the latest** sets how many entries are kept: 50, 100, 200 or 500, which is the default and the current maximum. Older entries are removed.
+- **Keep the latest** sets how many entries are kept: 500, 2,000, 5,000, 10,000 or 20,000. A new installation keeps 20,000, which is also the maximum. Older entries are removed.
+- Updating does not change this setting: if it was 500, it stays 500 until you choose a larger number.
 - History can be turned off. Nothing new is recorded; what is already there stays until you clear it.
 - **Clear history** deletes all entries, after a confirmation.
 
 ## Statistics
 
-<StatusTag status="building" />
+The home page adds up the dictations in the history for today, this week, this month and in total:
 
-In development: up to 20,000 entries, and statistics on the home page for today, this week, this month and in total:
+- **Characters transcribed**: the characters the speech model recognised.
+- **Characters corrected**: how many characters differ between the recognised text and the text inserted, spaces not counted.
+- **Speaking time** and **Time saved**.
 
-- characters transcribed and characters corrected;
-- speaking time and time saved, calculated as speaking time × 1.9. The factor comes from Ruan et al., 2016 (arXiv:1608.07323), where speaking was about 2.9 times as fast as typing on a phone, in English and in Chinese.
+Time saved is speaking time × 1.9. The factor comes from Ruan et al., 2016 (arXiv:1608.07323): in their experiments, speaking was about 2.9 times as fast as typing on a phone, in English (153 against 52 words per minute) and in Chinese (123 against 43 characters per minute). Typing the same text takes about 2.9 times as long as saying it, which saves 1.9 times the speaking time. **Basis**, next to **Time saved** on the home page, shows the same explanation.
 
-Only dictations count towards the statistics; voice edits and text from the phone do not.
+Only dictations kept in the history count. Voice edits, and text or clipboard content sent from the phone, do not; a recording made on the phone and recognised on this computer does.

diff --git a/voltip/src/index.md b/voltip/src/index.md
@@ -119,8 +119,8 @@ home:
             status: available
             link: /dictation/history
           - title: 20,000 entries and daily statistics
-            body: Words dictated, words corrected and time saved, by day, week and month.
-            status: building
+            body: Characters transcribed, characters corrected and time saved, by day, week and month.
+            status: available
             link: /dictation/history#statistics
           - title: Long recordings and computer audio
             body: Up to two hours per recording, from the microphone, the computer's own audio or both, with export to SRT subtitles.
@@ -242,9 +242,6 @@ home:
     title: What comes next
     intro: The next releases, in the expected order. No dates are promised; each feature is described on this site once it ships.
     items:
-      - title: 20,000 history entries and statistics
-        status: building
-        body: The history limit rises from 500 to 20,000 entries, and the home page shows words dictated, words corrected and time saved by day, week and month. Time saved is speaking time × 1.9, based on Ruan et al. 2016.
       - title: Long recordings and computer audio
         status: building
         body: Recordings of up to two hours from the microphone, the computer's own audio or both. Long recordings are recognised in segments and can be exported as SRT subtitles.

diff --git a/voltip/src/zh/index.md b/voltip/src/zh/index.md
@@ -119,8 +119,8 @@ home:
             status: available
             link: /zh/dictation/history
           - title: 2 万条历史与每日统计
-            body: 按日、周、月统计听写字数、修正字数和节省的时间。
-            status: building
+            body: 按日、周、月统计转录字数、修正字数和节省的时间。
+            status: available
             link: /zh/dictation/history#统计
           - title: 长录音与电脑声音
             body: 单次录音最长 2 小时，可以录制麦克风、电脑声音或两者混合，并导出 SRT 字幕。
@@ -242,9 +242,6 @@ home:
     title: 接下来的计划
     intro: 按预计顺序列出，不承诺日期；每项功能发布后，本站会随之更新。
     items:
-      - title: 2 万条历史记录与统计
-        status: building
-        body: 历史记录上限从 500 条提高到 2 万条，首页按日、周、月显示听写字数、修正字数和节省的时间。节省时间按说话时长 × 1.9 计算，依据 Ruan 等人 2016 年的研究。
       - title: 长录音与电脑声音
         status: building
         body: 单次录音最长 2 小时，可选择麦克风、电脑声音或两者混合。长录音分段识别，并可导出 SRT 字幕。

diff --git a/voltip/src/roadmap.md b/voltip/src/roadmap.md
@@ -8,10 +8,6 @@ The next releases, in the expected order. No dates are promised. Each feature is
 
 ## In development
 
-### 20,000 history entries and statistics <StatusTag status="building" />
-
-The history limit rises from 500 to 20,000 entries, and the home page shows characters transcribed, characters corrected, speaking time and time saved for today, this week, this month and in total. See [History](/dictation/history#statistics).
-
 ### Long recordings and computer audio <StatusTag status="building" />
 
 - Recordings of up to two hours, with the limit set under Settings.

diff --git a/voltip/src/zh/roadmap.md b/voltip/src/zh/roadmap.md
@@ -8,10 +8,6 @@ description: Voltip 接下来要开发的功能、计划中的功能，以及刻
 
 ## 正在开发
 
-### 2 万条历史记录与统计 <StatusTag status="building" />
-
-历史记录上限从 500 条提高到 2 万条，首页显示今天、本周、本月和累计的转录字数、修正字数、说话时长和节省的时间。见[历史记录](/zh/dictation/history#统计)。
-
 ### 长录音与电脑声音 <StatusTag status="building" />
 
 - 单次录音最长 2 小时，时长上限可以在设置中调整。
